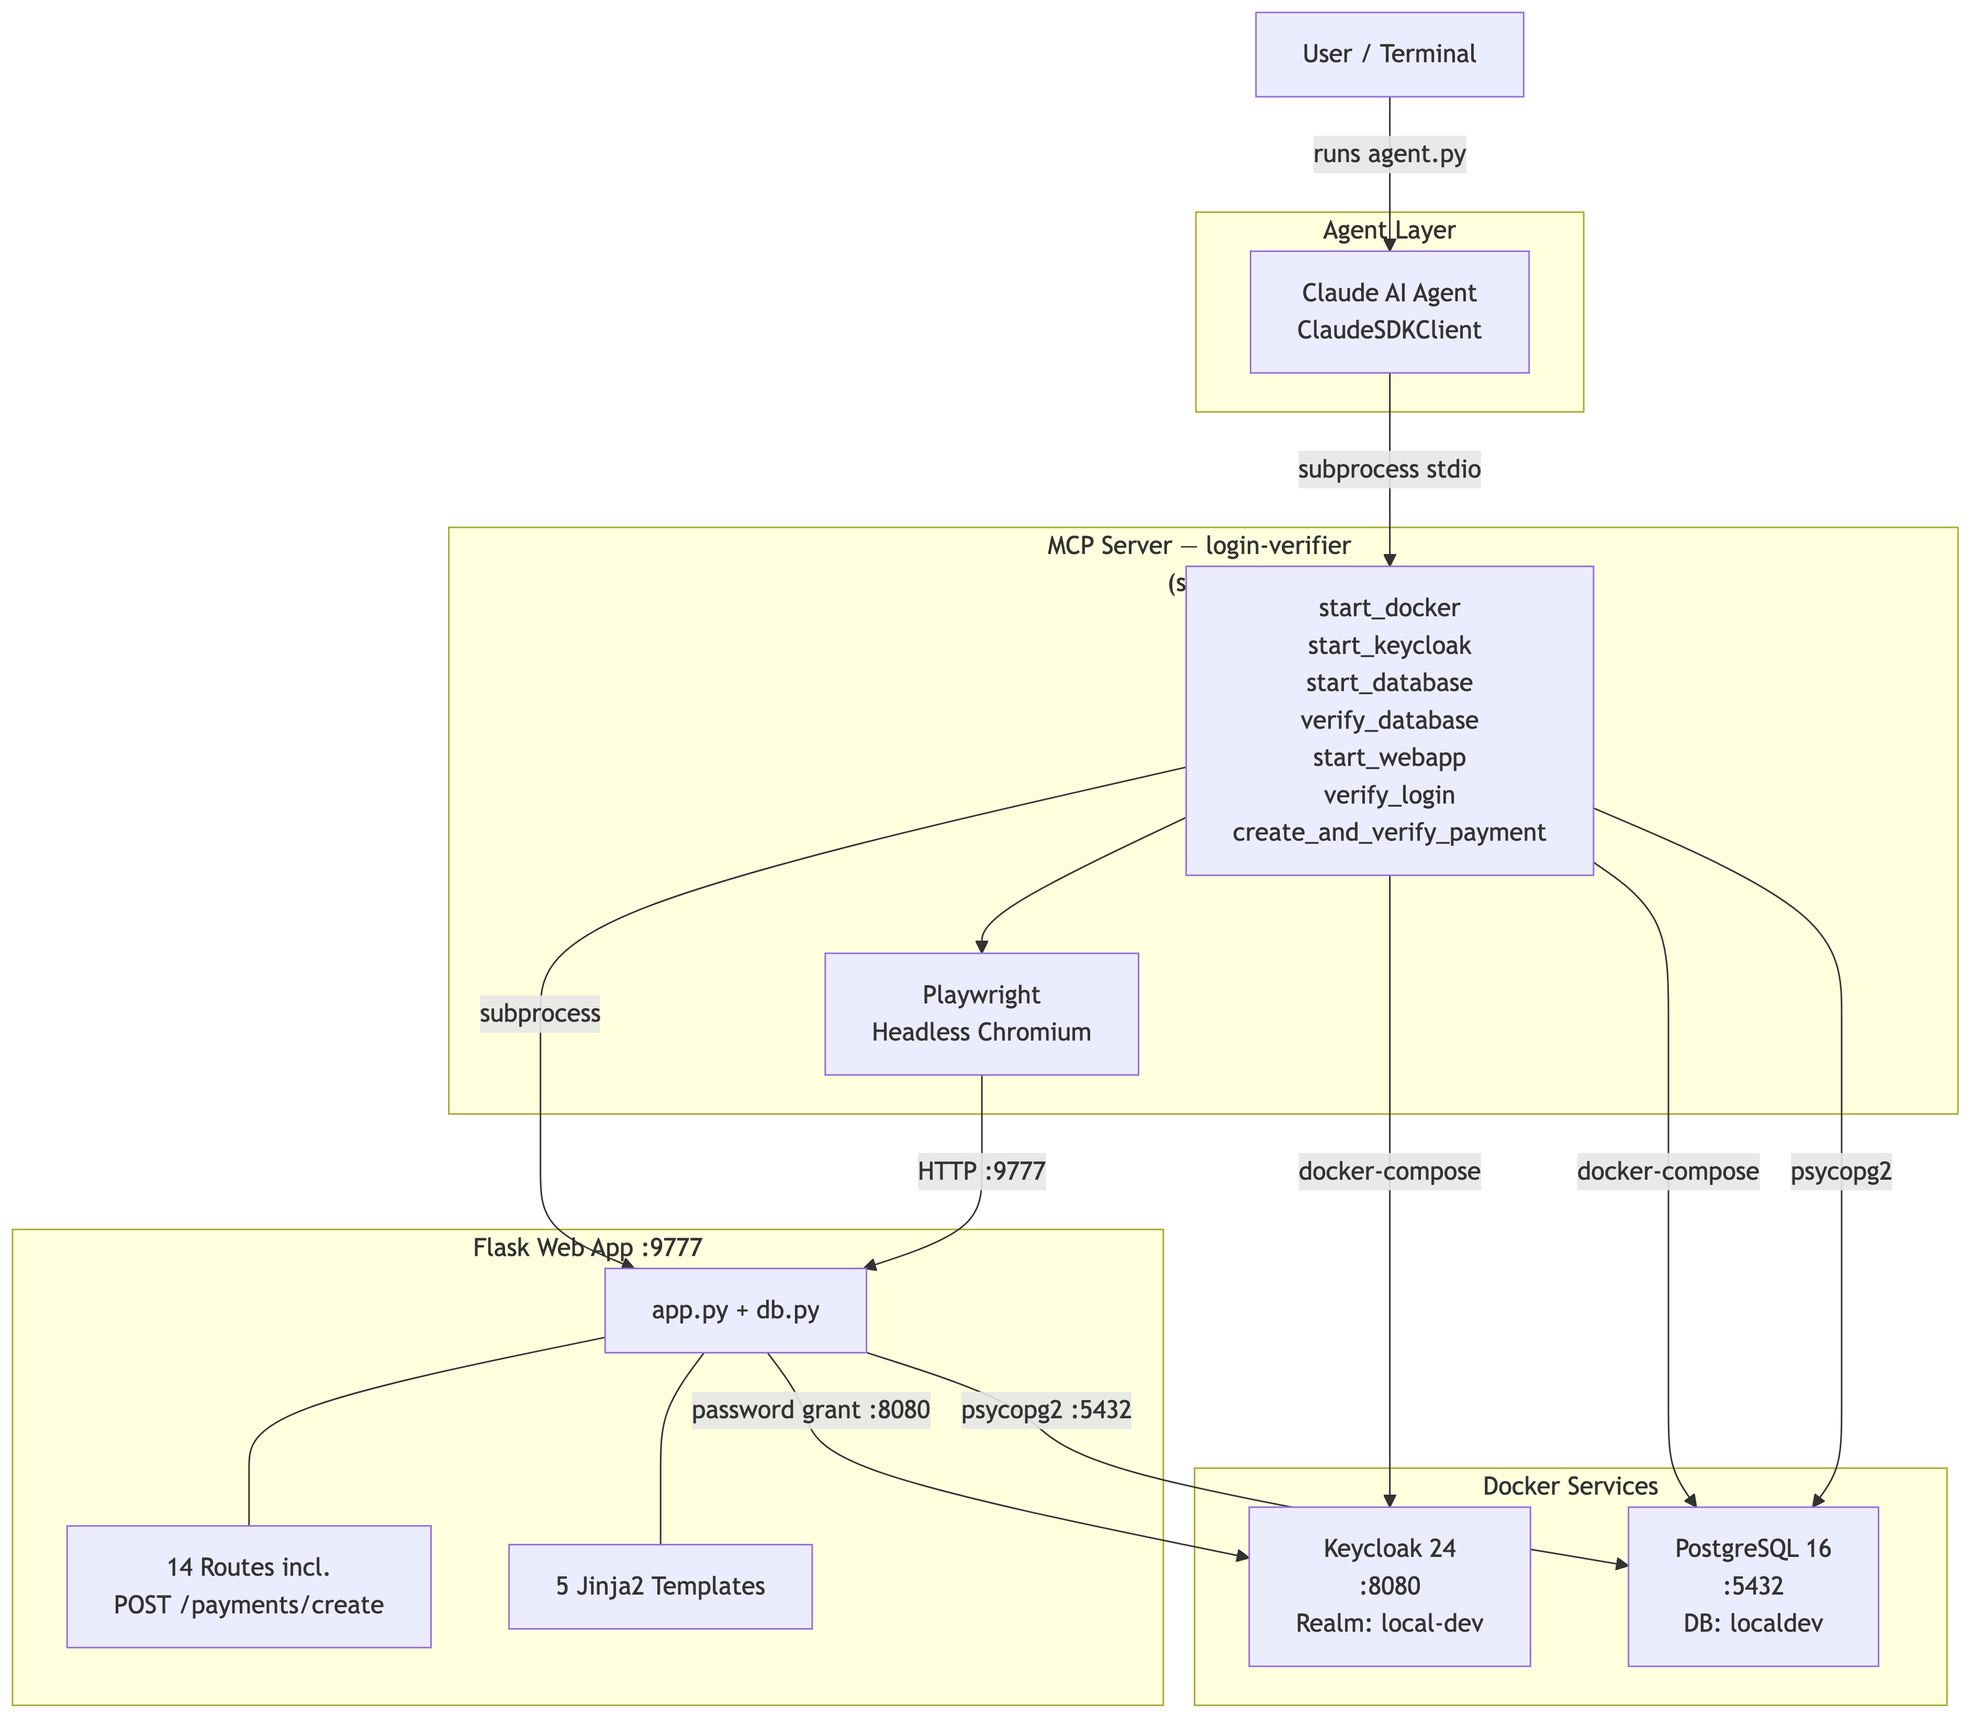
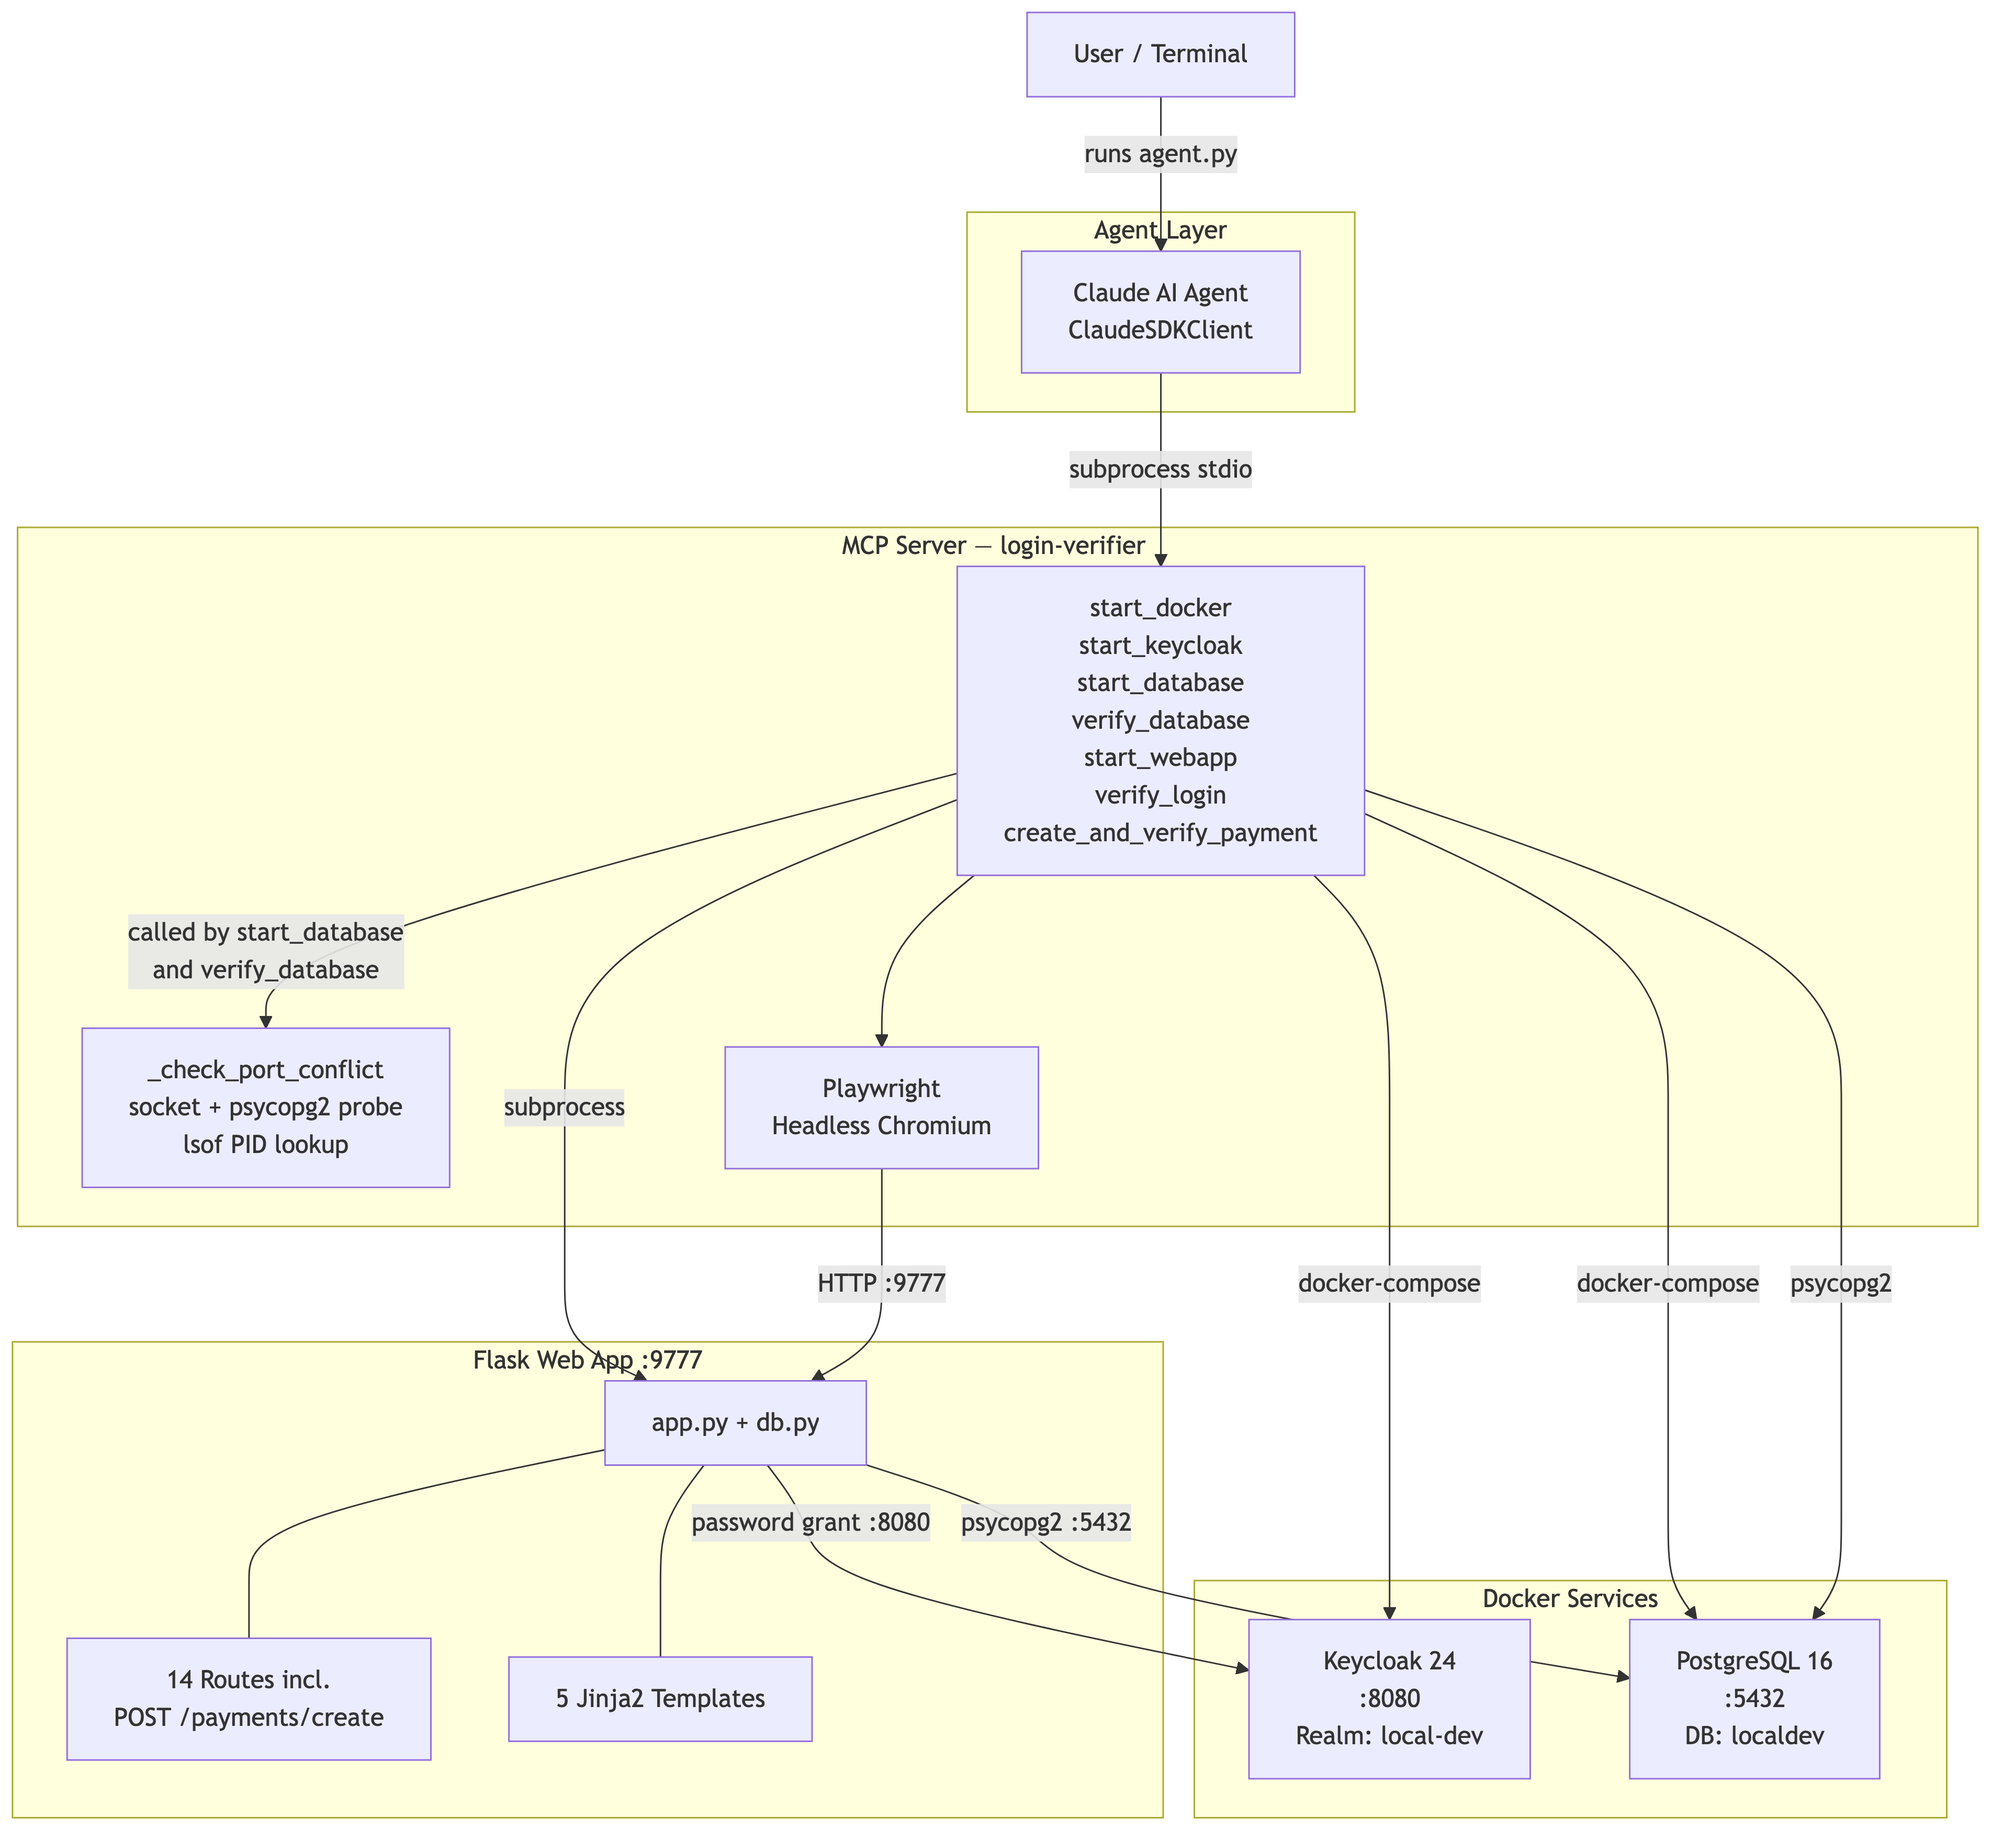
feat: detect PostgreSQL port conflicts in MCP tools
Add _check_port_conflict() helper that identifies when a local/system
PostgreSQL is occupying the Docker port. Integrated into start_database
and verify_database for early, actionable diagnostics.

diff --git a/mcp_server/login_verify_server.py b/mcp_server/login_verify_server.py
@@ -317,6 +317,60 @@ async def start_keycloak(port: int = 8080) -> str:
     return f"FAIL: Started Keycloak container but not responding on port {port} after 60 seconds"
 
 
+def _check_port_conflict(port: int) -> str | None:
+    """Check if a non-Docker PostgreSQL is occupying the port.
+
+    Attempts to connect with the expected localdev role. If the port is open
+    but the role doesn't exist, a local/system PostgreSQL is likely blocking
+    the Docker container. Returns a diagnostic message or None if no conflict.
+    """
+    import socket
+    try:
+        s = socket.create_connection(("localhost", port), timeout=2)
+        s.close()
+    except Exception:
+        return None  # port not open, no conflict
+
+    # Port is open — verify it's the right postgres
+    try:
+        import psycopg2
+        conn = psycopg2.connect(
+            host="localhost", port=port,
+            dbname="localdev", user="localdev", password="localdev",
+            connect_timeout=3,
+        )
+        conn.close()
+        return None  # connected fine, it's our Docker postgres
+    except Exception as e:
+        if "role" in str(e).lower() and "does not exist" in str(e).lower():
+            # Identify the conflicting process
+            try:
+                result = subprocess.run(
+                    ["lsof", "-i", f":{port}", "-sTCP:LISTEN", "-n", "-P"],
+                    capture_output=True, text=True, timeout=5,
+                )
+                processes = [
+                    line for line in result.stdout.strip().split("\n")[1:]
+                    if "docker" not in line.lower()
+                ]
+                if processes:
+                    proc_info = processes[0].split()
+                    proc_name, proc_pid = proc_info[0], proc_info[1]
+                    return (
+                        f"PORT CONFLICT: A local PostgreSQL ({proc_name}, PID {proc_pid}) "
+                        f"is running on port {port} and blocking the Docker container. "
+                        f"Stop it with: brew services stop postgresql@16  OR  kill {proc_pid}"
+                    )
+            except Exception:
+                pass
+            return (
+                f"PORT CONFLICT: Port {port} is occupied by a PostgreSQL instance "
+                f"that does not have the 'localdev' role. A local/system PostgreSQL "
+                f"is likely blocking the Docker container. Stop it before proceeding."
+            )
+        return None  # some other connection error, not a port conflict
+
+
 @mcp.tool()
 async def start_database(port: int = 5432) -> str:
     """Start PostgreSQL via docker-compose if it is not already running.
@@ -327,6 +381,12 @@ async def start_database(port: int = 5432) -> str:
     Returns:
         A message indicating whether PostgreSQL was started or was already running.
     """
+    # Check for port conflict with a local PostgreSQL
+    conflict = _check_port_conflict(port)
+    if conflict:
+        log(f"[start_database] {conflict}")
+        return f"FAIL: {conflict}"
+
     # Check if already running by attempting a TCP connection
     import socket
     def _pg_ready():
@@ -381,12 +441,21 @@ async def start_database(port: int = 5432) -> str:
 async def verify_database(port: int = 5432) -> str:
     """Verify that PostgreSQL is running and the accounts/payments tables exist with data.
 
+    Also detects port conflicts where a local/system PostgreSQL is blocking
+    the Docker container.
+
     Args:
         port: The port PostgreSQL listens on (default 5432).
 
     Returns:
         A message with table row counts or an error.
     """
+    # Check for port conflict first
+    conflict = _check_port_conflict(port)
+    if conflict:
+        log(f"[verify_database] {conflict}")
+        return f"FAIL: {conflict}"
+
     try:
         import psycopg2
         conn = psycopg2.connect(

diff --git a/ARCHITECTURE.md b/ARCHITECTURE.md
@@ -1,7 +1,7 @@
 # Architecture Diagram
 
 > Auto-updated by architecture-diagram-updater agent
-> Last updated: 2026-02-17
+> Last updated: 2026-02-17 (port conflict detection added)
 
 ## System Overview
 
@@ -16,7 +16,9 @@ graph TB
     subgraph MCP["MCP Server — login-verifier (stdio)"]
         direction LR
         MCPTools["start_docker<br/>start_keycloak<br/>start_database<br/>verify_database<br/>start_webapp<br/>verify_login<br/>create_and_verify_payment"]
+        PortCheck["_check_port_conflict<br/>socket + psycopg2 probe<br/>lsof PID lookup"]
         Playwright["Playwright<br/>Headless Chromium"]
+        MCPTools -->|called by start_database<br/>and verify_database| PortCheck
     end
 
     subgraph Flask["Flask Web App :9777"]
@@ -54,6 +56,7 @@ graph TB
 | PostgreSQL | 5432 | postgres:16 | Relational DB; tables `accounts` and `payments`; volume `pgdata` for persistence |
 | Flask Web App | 9777 | Python, Flask, python-keycloak | Session-based web app; validates credentials via Keycloak password grant |
 | Playwright | — | Playwright (Chromium headless) | Browser automation used by `verify_login` and `create_and_verify_payment` MCP tools |
+| `_check_port_conflict` | — | Python (socket, psycopg2, lsof) | Helper called by `start_database` and `verify_database`; detects a local/system PostgreSQL occupying :5432 before Docker can bind it |
 
 ## Interaction Summary
 
@@ -62,8 +65,8 @@ graph TB
 1. **Agent starts**: User runs `agent/agent.py`. The agent spawns `mcp_server/login_verify_server.py` as a subprocess over stdio and connects via `ClaudeSDKClient`.
 2. **Docker**: Agent calls `start_docker` — opens Docker Desktop (macOS) or starts via systemctl (Linux).
 3. **Keycloak**: Agent calls `start_keycloak(8080)` — runs `docker-compose up -d`, waits up to 60s, then disables SSL on the master realm via `kcadm.sh` inside the container, and provisions the test user `Tanmay` via the Keycloak Admin REST API.
-4. **PostgreSQL**: Agent calls `start_database(5432)` — runs `docker-compose up -d postgres`, waits up to 30s. Schema and seed data are applied from `db/init.sql` on the first start.
-5. **Database verification**: Agent calls `verify_database(5432)` — connects with psycopg2 and checks row counts in `accounts` and `payments`.
+4. **PostgreSQL**: Agent calls `start_database(5432)` — first calls `_check_port_conflict(5432)` to detect whether a local/system PostgreSQL is occupying the port (socket probe + psycopg2 connection attempt + `lsof` PID lookup). If a conflict is found the tool returns a `FAIL` with remediation instructions immediately. Otherwise it runs `docker-compose up -d postgres` and waits up to 30s. Schema and seed data are applied from `db/init.sql` on the first start.
+5. **Database verification**: Agent calls `verify_database(5432)` — also calls `_check_port_conflict(5432)` first, then connects with psycopg2 and checks row counts in `accounts` and `payments`.
 6. **Flask app**: Agent calls `start_webapp(9777)` — spawns `webapp/app.py` as a detached subprocess via `.venv/bin/python3`, polls until healthy.
 7. **Login verification**: Agent calls `verify_login(url, "Tanmay", "Tanmay")` — Playwright logs in via the browser, verifies the dashboard is reached.
 8. **Payment creation and verification**: Agent calls `create_and_verify_payment(url, "Tanmay", "Tanmay")` — Playwright logs in, navigates to `/payments`, fills the create payment form (`POST /payments/create`, amount=50, USD, debit=1, credit=2), checks for a success message, then queries PostgreSQL directly to confirm the row was persisted.
@@ -116,8 +119,8 @@ payments
 |------|-----------|
 | `start_docker()` | Opens Docker daemon (macOS: `open -a Docker`; Linux: `systemctl`) |
 | `start_keycloak(port)` | `docker-compose up -d`; disables master realm SSL via `kcadm.sh`; provisions test user via Admin REST API |
-| `start_database(port)` | `docker-compose up -d postgres`; TCP-polls until ready |
-| `verify_database(port)` | psycopg2 connection; queries row counts for `accounts` and `payments` |
+| `start_database(port)` | `_check_port_conflict` first; `docker-compose up -d postgres`; TCP-polls until ready |
+| `verify_database(port)` | `_check_port_conflict` first; psycopg2 connection; queries row counts for `accounts` and `payments` |
 | `start_webapp(port)` | Spawns Flask as detached subprocess; HTTP-polls until healthy |
 | `verify_login(url, username, password)` | Playwright headless login; checks for "Welcome" in dashboard HTML |
 | `create_and_verify_payment(url, username, password)` | Playwright login + `POST /payments/create` form; DB verification via psycopg2 |

diff --git a/claude.md b/claude.md
@@ -112,12 +112,13 @@ cd /Users/tanmaypatil/agent-local-env
 ### Known Constraints
 - The agent cannot run from inside a Claude Code terminal (nested session detection). Use a separate terminal or `unset CLAUDECODE` first.
 - When recreating Keycloak, always use `docker-compose down -v` to remove volumes — Keycloak skips realm import if the realm already exists.
+- **PostgreSQL port conflict**: A local/system PostgreSQL (e.g. Homebrew `postgresql@16`) may occupy port 5432, shadowing the Docker container. The `start_database` and `verify_database` MCP tools detect this automatically and report the conflicting process. Fix: `brew services stop postgresql@16` or kill the local postgres process before running Docker.
 
 ## Available MCP Tools
 - `start_docker()` — Starts the Docker daemon if not running. Platform-agnostic: uses `open -a Docker` on macOS, `systemctl start docker` on Linux.
 - `start_keycloak(port)` — Starts Keycloak via docker-compose if it's not running. Automatically starts Docker first if needed. Disables SSL on master realm and ensures test user exists. Waits until healthy (up to 60s).
-- `start_database(port)` — Starts PostgreSQL via docker-compose if it's not running. Automatically starts Docker first if needed. Waits until ready (up to 30s).
-- `verify_database(port)` — Connects to PostgreSQL and verifies accounts/payments tables exist with data.
+- `start_database(port)` — Starts PostgreSQL via docker-compose if it's not running. Automatically starts Docker first if needed. Detects port conflicts with local/system PostgreSQL. Waits until ready (up to 30s).
+- `verify_database(port)` — Connects to PostgreSQL and verifies accounts/payments tables exist with data. Detects port conflicts with local/system PostgreSQL.
 - `start_webapp(port)` — Starts the Flask web app if it's not running. Waits until healthy.
 - `verify_login(url, username, password)` — Uses Playwright to test login flow in a headless browser.
 - `create_and_verify_payment(url, username, password)` — Logs in via Playwright, creates a payment (amount=50, USD, debit=1, credit=2) through the webapp form, and verifies the row exists in PostgreSQL.
